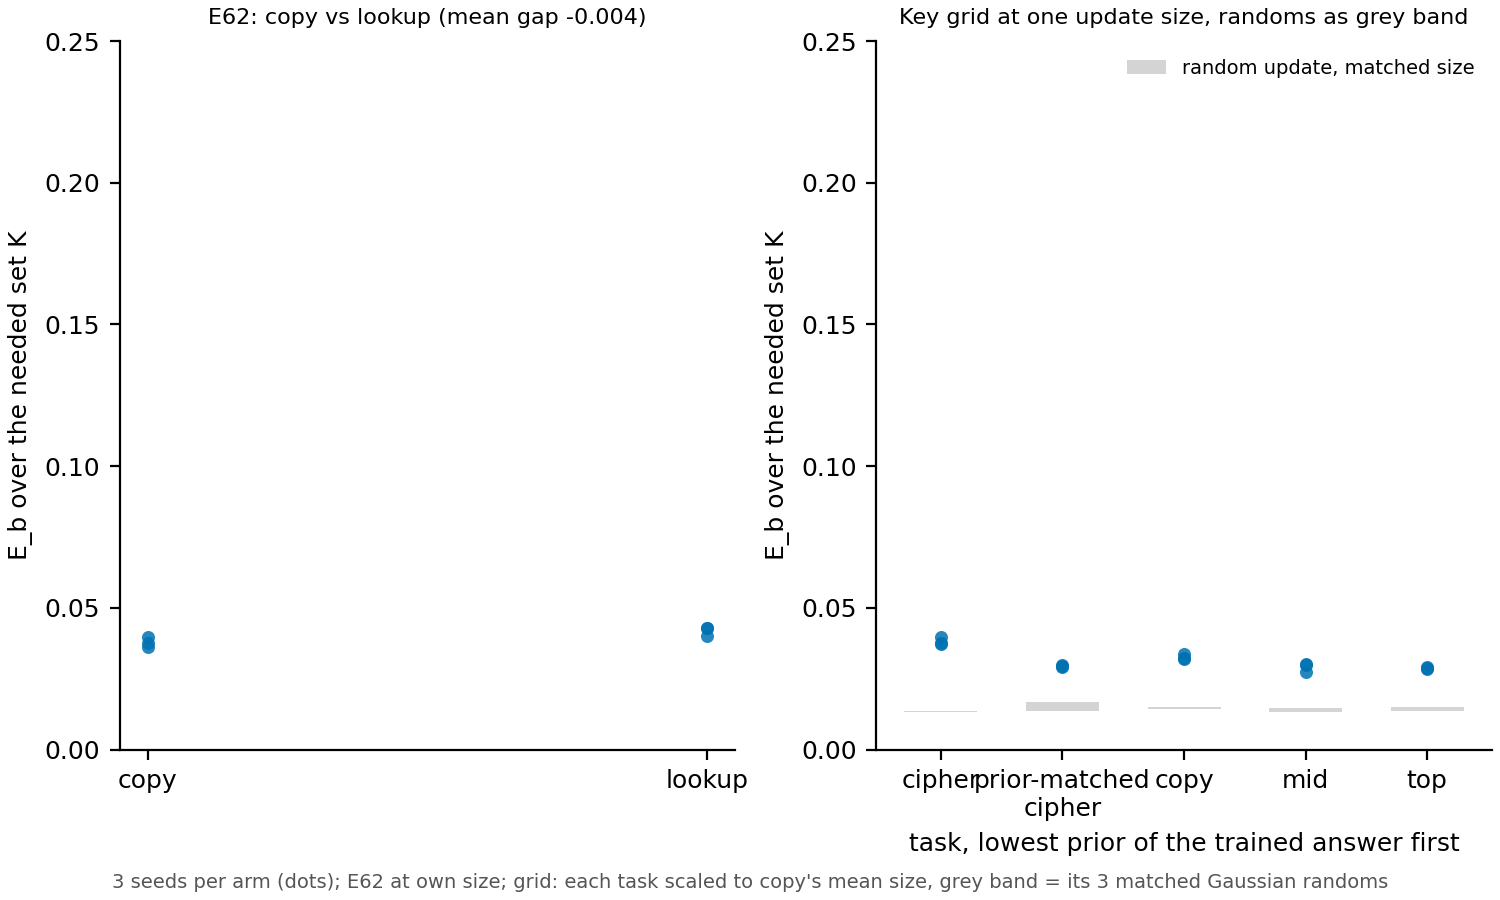
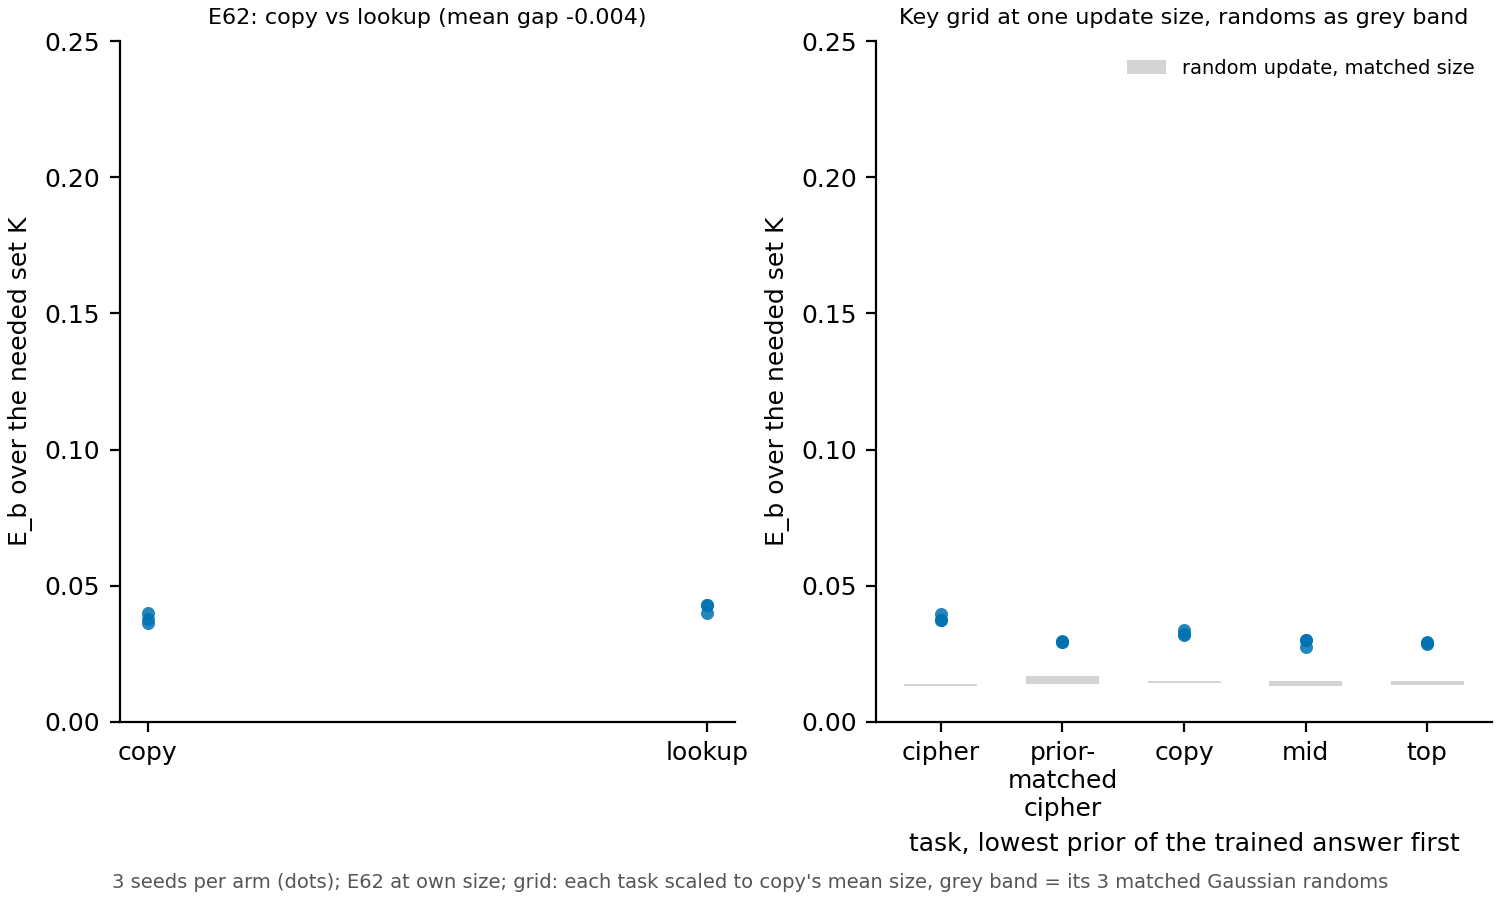
P1.57: one-page result for the dropped E_b readings (grid, E62, copy windows, head edits), numbers ledger; key-grid figure tick labels unoverlapped

diff --git a/experiments/eb_dropped/plot.py b/experiments/eb_dropped/plot.py
@@ -17,7 +17,7 @@ from commute.figures import FULL_WIDTH, column_dots, figure, save
 HERE = Path(__file__).resolve().parent
 RIVAL_GAP = json.loads((HERE / "results" / "predictions.json").read_text())["settings"]["rival_gap"]
 ORDER = json.loads((HERE.parent / "key_grid" / "results" / "summary.json").read_text())["x_order_by_prior"]
-NAMES = {"copy": "copy", "rank1": "top", "elicit": "mid", "cipher": "cipher", "prior_cipher": "prior-matched\ncipher"}
+NAMES = {"copy": "copy", "rank1": "top", "elicit": "mid", "cipher": "cipher", "prior_cipher": "prior-\nmatched\ncipher"}
 YLABEL = "E_b over the needed set K"
 
 

diff --git a/reports/analyses/2026-11-23_analysis_p1-57-dropped-results.md b/reports/analyses/2026-11-23_analysis_p1-57-dropped-results.md
@@ -1,0 +1,145 @@
+# Does the write share over the needed set tell copy from lookup, or rank the five key tasks?
+
+Cell P1.57, 2026-11-23. Two results the paper's second draft dropped, read again under the frozen definition's needed
+set: the copying-head pair and the five-task key grid at one update size. Cluster and short H100 pods, about $0.
+
+We read the write share over the needed set on the copying-head pair, copy against lookup, and on the five key tasks
+scaled to one update size, each beside random updates of the same size. Neither result separates anything: copy and
+lookup read the same, every task reads within about a hundredth of every other, and, unexpectedly, the order runs
+against the filed expectation at both ends, with the cipher highest, copy second and the prior-matched cipher below the
+plain cipher. For the goals, this reading cannot carry the claim that copying reuses the base model while a cipher is
+new: on these items it measures how far any trained update turns each variable's write, and that is small for all of
+them.
+
+## The answer
+
+The write share over the needed set does not tell the copying fine-tune from the lookup fine-tune, nor rank the five
+key tasks the way the squared-cosine reading did. Every trained update reads two to three times its random update and
+a twentieth or less of what a pure strengthening edit reads. The ordering surprise is real but tiny: the cipher sits above
+copy on every seed, by about a fortieth of the gap that was filed as meaningful. Reading only the copy windows does not
+change this.
+
+**What the reading is.** Variables are VPD's subcomponents of the 24 decomposed matrices plus one remainder per matrix,
+38,938 in all. The needed set K holds every variable that, swapped for its value on another input of the task data,
+flips the fine-tuned model's top token on at least one of 256 tested pairs; its size |K| is given beside every value.
+The write share over K, written E_b, starts from the change in each needed variable's write between the fine-tuned
+and base model on the same input. It keeps the part of that change that lies along the variable's own original write,
+and divides the summed kept parts by the summed change. It reads 1 when the update only rescales each needed variable's write. The built edit that
+doubles every weight reads 0.761, and a random update matched in size reads 0.011. It is a reading of the frozen
+definition, not the definition, and it is not admissible as computed. The margin beside each value is the smallest gap
+between the fine-tuned model's top two logits over the task data.
+
+## The key grid: are the five tasks ordered as before?
+
+![Write share over the needed set: E62 copy against lookup, left; the five key-grid tasks at one update size beside their matched random updates, right](../../experiments/eb_dropped/figures/eb_over_K.png)
+
+**Reading it.** No. All fifteen trained states sit between 0.0274 and 0.0398, every task within 0.012 of every other,
+against the filed gap of 0.2. Each task sits two to three times above its grey band of three matched random updates,
+which read 0.0131 to 0.0169. The order reverses the filed expectation at both ends: the cipher, expected lowest, is
+highest on every seed, and copy, expected highest, is second, with no overlap between their seeds. The cipher's mean
+sits 0.0055 above copy's. The prior-matched cipher, whose answers the base model already finds likely, reads below the
+plain cipher. Caveat: each step of this order is about forty times under the filed gap, so it is an ordering of small
+numbers, not a separation.
+
+| task, three seeds | E_b over K | |K| | smallest margin, logits | matched random |
+|---|---|---|---|---|
+| cipher | 0.0374, 0.0375, 0.0398 | 22,925 to 35,226 | 0.0006 to 0.0022 | 0.0131 to 0.0138 |
+| prior-matched cipher | 0.0293, 0.0295, 0.0297 | 26,871 to 33,252 | 0.0022 to 0.0039 | 0.0138 to 0.0169 |
+| copy | 0.0320, 0.0324, 0.0339 | 16,708 to 24,665 | 0.0004 to 0.0051 | 0.0144 to 0.0150 |
+| mid, a token from the base model's top 20 | 0.0274, 0.0300, 0.0301 | 23,470 to 31,319 | 0.0002 to 0.0027 | 0.0133 to 0.0149 |
+| top, the base model's own top token | 0.0284, 0.0288, 0.0292 | 16,103 to 29,271 | 0.0005 to 0.0038 | 0.0136 to 0.0149 |
+
+Every |K| is far above the floor of 100 below which a value reads "too small to read"; K holds 41 to 90 percent of all
+variables, so restricting to it changes little. The redteam verdict on the grid: rival B as filed, all tasks within
+0.03 against a gap bar of 0.2; "two to three times the randoms" is description only; the order reversal is a
+qualitative surprise; no reuse or new reading is drawn.
+
+## The copying-head pair: does copy read above lookup?
+
+No. The copying fine-tune reads 0.036 to 0.040 and the lookup 0.040 to 0.043. On the three-seed mean, copy sits 0.004
+below lookup. These states are 8-token windows read at the marker, a mix in which 206 of 512 windows are copy
+windows, not the original task's longer windows, and the copy head's job depends on context length. The six values
+were taken from an earlier read of the same states, not re-read.
+
+| seed | copy E_b | copy |K| | copy margin | lookup E_b | lookup |K| | lookup margin |
+|---|---|---|---|---|---|---|
+| 0 | 0.0376 | 17,382 | 0.0034 | 0.0399 | 11,186 | 0.0063 |
+| 1 | 0.0399 | 30,688 | 0.0012 | 0.0431 | 15,904 | 0.0018 |
+| 2 | 0.0362 | 12,145 | 0.0040 | 0.0429 | 9,271 | 0.0140 |
+
+Redteam verdict: "On E62's copying-head pair, the write share over the needed set does not separate copy from lookup
+(copy minus lookup -0.004 over three seeds, against a 0.2 bar), and both read about 0.04, far below the 0.76 of the
+built strengthening edit. On this reading, the user's worked reuse example does not look like strengthening." There is
+no matched random for this pair, so 0.04 is "near the random level seen elsewhere", not "at random".
+
+**On the copy windows alone.** We read the same six states on the 206 copy windows only, with the needed set found again
+there. Copy over lookup is 0.61 on the three-seed means, below the filed ratio of 1.5, so lookup is not diluting a real
+difference. Two of the three lookup seeds have a needed set under the floor, 97 and 75 variables, so they read "too
+small to read"; over the all-data needed set on the copy windows the ratio is 0.98. The stage-0 repeat of a saved state
+matched to 2.1e-9 against a bar of 2.7e-9.
+
+| state | E_b over copy-window K | copy-window |K| | E_b over all-data K, copy windows | smallest margin, copy windows |
+|---|---|---|---|---|
+| copy seed 0 | 0.0300 | 208 | 0.0649 | 1.0167 |
+| copy seed 1 | 0.0477 | 1,184 | 0.0710 | 0.1008 |
+| copy seed 2 | 0.0346 | 673 | 0.0644 | 0.1720 |
+| lookup seed 0 | too small to read | 97 | 0.0625 | 0.4175 |
+| lookup seed 1 | 0.0704 | 17,732 | 0.0705 | 0.0072 |
+| lookup seed 2 | too small to read | 75 | 0.0723 | 0.6805 |
+
+The copy-window values for lookup seeds 0 and 2, 0.0193 and 0.0936, enter the filed ratio but are under the floor.
+E281 verdict: pending redteam-lead.
+
+## Why the copy head does not show: a head confined change caps near a fifth
+
+VPD decomposes each attention matrix whole, so no subcomponent belongs to one head. A built edit that doubles only the
+copy head's value or output reads about 0.2 at VPD and 1.0 at a featurization where the head is one variable.
+
+| built edit on the copy head | E_b over K at VPD | E_b over K, head as one variable |
+|---|---|---|
+| value doubled | 0.192 | 1.000 |
+| output doubled | 0.200 | 1.000 |
+| query doubled | 0.249 | 0.040 |
+
+Redteam verdict: "head-mixing caps E_b at ~0.2 for a one-head change; E62's updates sit far below that cap." The
+fine-tunes read about a fifth of that cap, near the random update's 0.011, because almost no variable's write change
+lies along its original write. The query edit's 0.249 at VPD comes from the weight algebra, not from VPD seeing the
+sharpening, and doubling the query raised the copy loss, so it is not a useful strengthening.
+
+## A failed control: weighting by flips
+
+A column that pooled the kept share by how often each variable flips the answer failed its positive control at both
+featurizations. The doubled-weights edit read 0.012 at VPD, where 0.5 or more was expected. With heads as variables it
+read 0.772, where about one was expected. It rewards being needed, not being changed. Its held-out values are not evidence for
+anything.
+
+## Scorecard
+
+| card | claim in words | rule | read | verdict |
+|---|---|---|---|---|
+| grid | tasks ordered copy highest, cipher lowest, each above its random | gap 0.2 | all within 0.012, cipher highest | rival B; order surprise |
+| E62 pair | copy at least 0.2 above lookup | gap 0.2 | copy 0.004 below | rival B |
+| copy windows | copy over lookup at least 1.5 | ratio | 0.61 over copy-window K | rival B, verdict pending |
+| head edit | value doubled reads at least 0.5 at VPD | 0.5 | 0.192 | rival B |
+
+## Departures from the literature
+
+- The frozen definition, after Geiger et al. 2025, calls a variable kept only when its fine-tuned mechanism is exactly
+  a positive multiple of the base one on every setting that occurs. The write share replaces that yes-or-no test with a
+  pooled fraction weighted by write change, which is why it is a reading and not admissible as computed.
+- The copying pair is read on 8-token windows at the marker, not on the original task's 41-token windows.
+
+## Not run
+
+- A matched random update for the copying-head pair.
+- A strengthening edit on the copy head that lowers copy loss, such as scaling it by 1.2: needed to say whether a useful
+  sharpening reads as new.
+- The key grid at the head-as-one-variable featurization, or at more than one update size or three seeds.
+- A repaired flip weighting, such as flips times write change: a new design needing its own cell.
+- Redteam verdict on the copy-window read.
+
+Provenance: `experiments/eb_dropped/results/summary.json` for the grid and the pair, the pair's items from
+`experiments/claim2_needed/results/items/e62-*.json`; `experiments/e62_copy_windows/results/summary.json` for the copy
+windows; `experiments/head_edit/results/summary.json` for the built head edits;
+`experiments/eb_dropped/results/flip_weighted.json` for the doubled-weights control and the randoms. Diagnosis in
+`reports/analyses/2026-11-23_analysis_e62-eb-diagnosis.md`.
